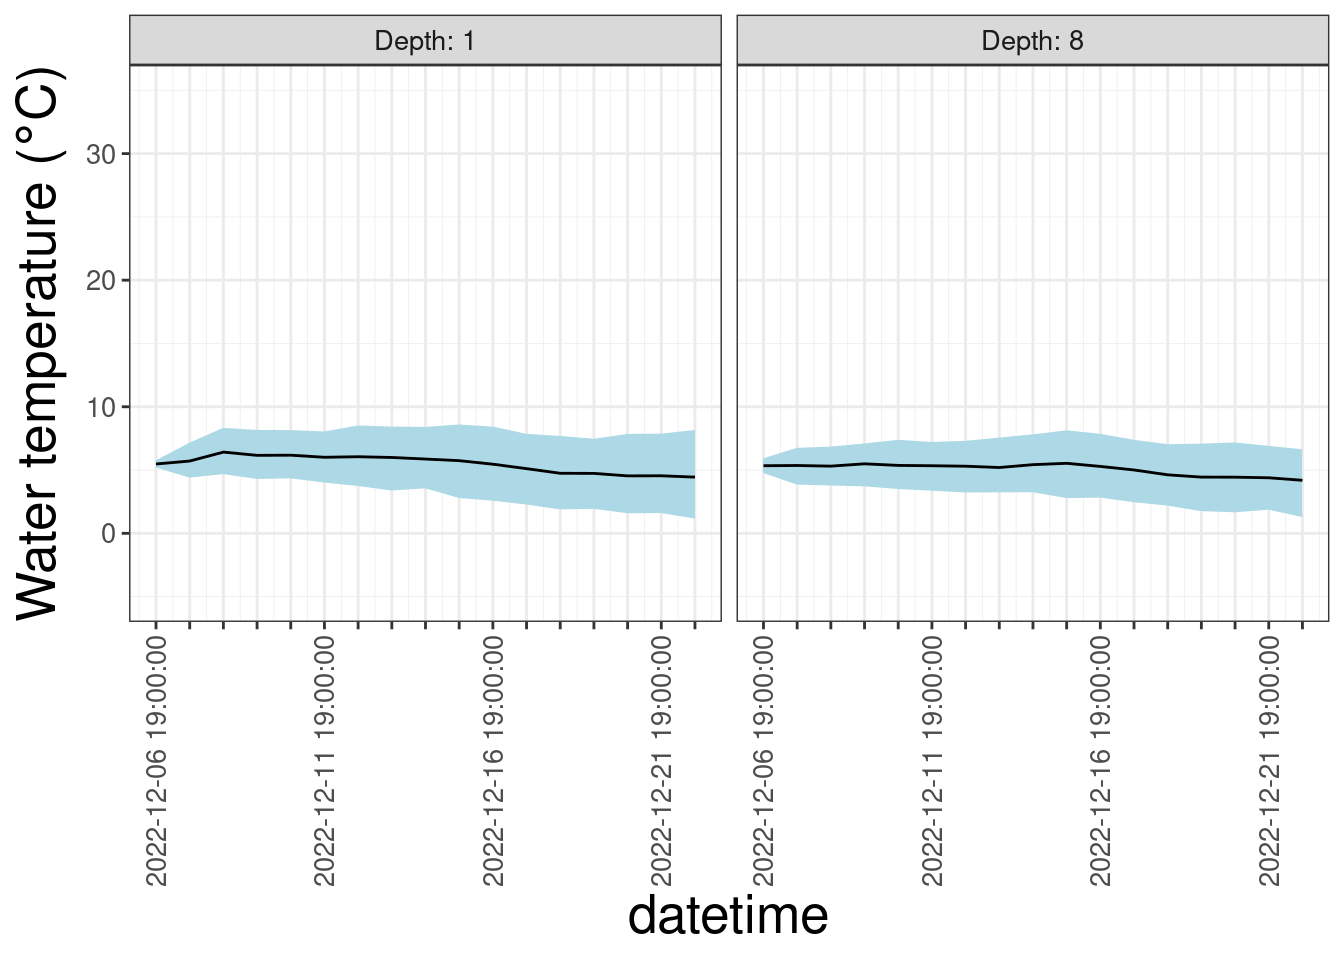
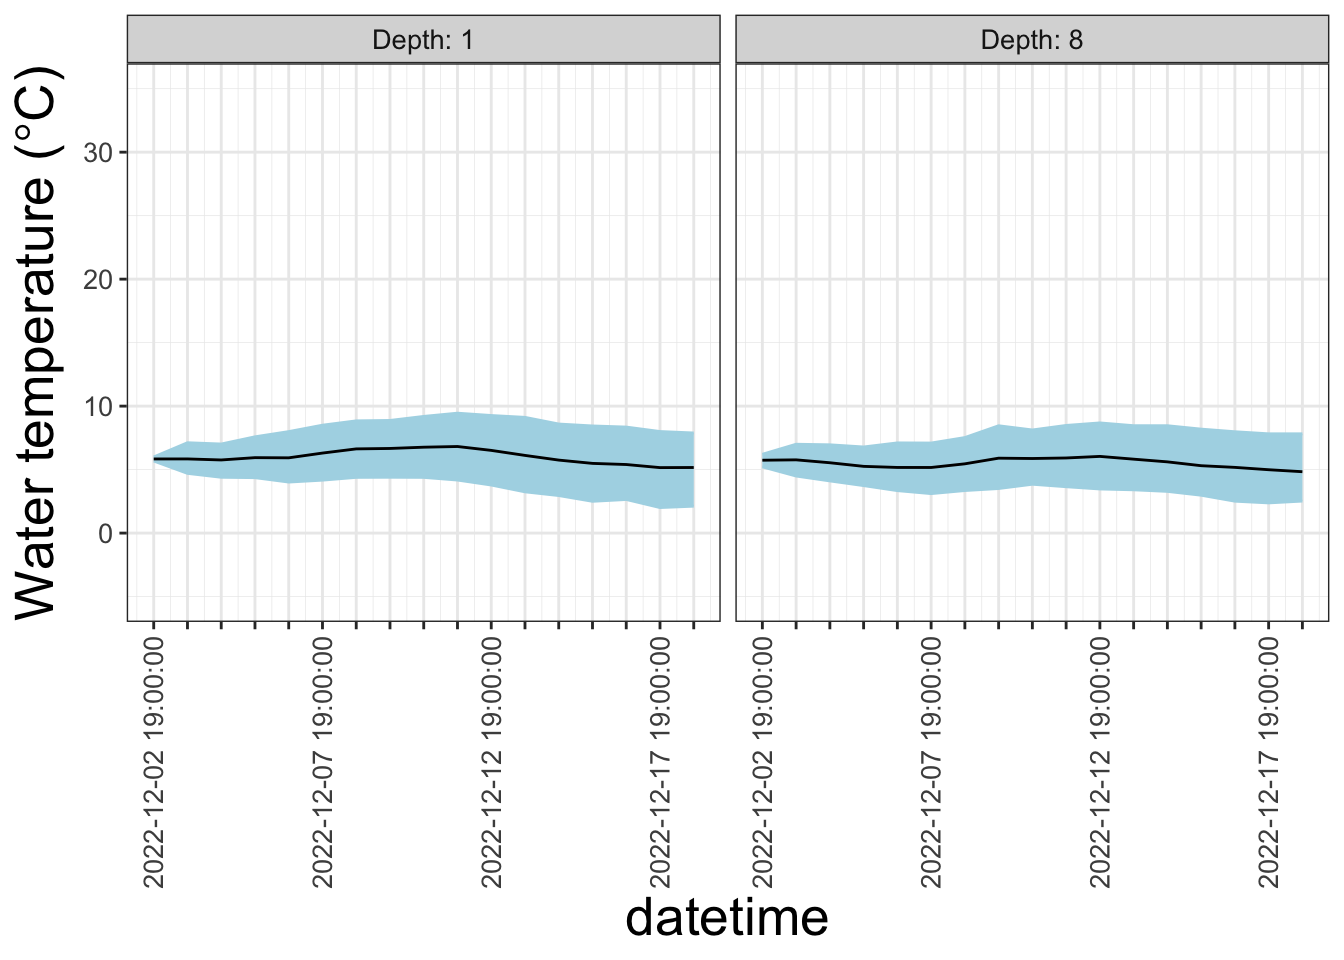
updates

diff --git a/docs/fcre.html b/docs/fcre.html
@@ -2,7 +2,7 @@
 <html xmlns="http://www.w3.org/1999/xhtml" lang="en" xml:lang="en"><head>
 
 <meta charset="utf-8">
-<meta name="generator" content="quarto-1.2.269">
+<meta name="generator" content="quarto-0.9.577">
 
 <meta name="viewport" content="width=device-width, initial-scale=1.0, user-scalable=yes">
 
@@ -11,15 +11,10 @@
 <style>
 code{white-space: pre-wrap;}
 span.smallcaps{font-variant: small-caps;}
-div.columns{display: flex; gap: min(4vw, 1.5em);}
-div.column{flex: auto; overflow-x: auto;}
+span.underline{text-decoration: underline;}
+div.column{display: inline-block; vertical-align: top; width: 50%;}
 div.hanging-indent{margin-left: 1.5em; text-indent: -1.5em;}
 ul.task-list{list-style: none;}
-ul.task-list li input[type="checkbox"] {
-  width: 0.8em;
-  margin: 0 0.8em 0.2em -1.6em;
-  vertical-align: middle;
-}
 </style>
 
 
@@ -38,7 +33,7 @@ ul.task-list li input[type="checkbox"] {
 <link href="site_libs/quarto-html/quarto-syntax-highlighting.css" rel="stylesheet" id="quarto-text-highlighting-styles">
 <script src="site_libs/bootstrap/bootstrap.min.js"></script>
 <link href="site_libs/bootstrap/bootstrap-icons.css" rel="stylesheet">
-<link href="site_libs/bootstrap/bootstrap.min.css" rel="stylesheet" id="quarto-bootstrap" data-mode="light">
+<link href="site_libs/bootstrap/bootstrap.min.css" rel="stylesheet">
 <script id="quarto-search-options" type="application/json">{
   "location": "navbar",
   "copy-button": false,
@@ -75,40 +70,28 @@ background-size: cover;
   <header id="quarto-header" class="headroom fixed-top">
     <nav class="navbar navbar-expand-lg navbar-dark ">
       <div class="navbar-container container-fluid">
-      <div class="navbar-brand-container">
-    <a class="navbar-brand" href="./index.html">
+      <a class="navbar-brand" href="./index.html">
     <span class="navbar-title">FLARE</span>
-    </a>
-  </div>
+  </a>
           <button class="navbar-toggler" type="button" data-bs-toggle="collapse" data-bs-target="#navbarCollapse" aria-controls="navbarCollapse" aria-expanded="false" aria-label="Toggle navigation" onclick="if (window.quartoToggleHeadroom) { window.quartoToggleHeadroom(); }">
   <span class="navbar-toggler-icon"></span>
 </button>
           <div class="collapse navbar-collapse" id="navbarCollapse">
             <ul class="navbar-nav navbar-nav-scroll me-auto">
   <li class="nav-item">
-    <a class="nav-link" href="https://flare-forecast.org"><i class="bi bi-cpu" role="img">
-</i> 
- <span class="menu-text">About</span></a>
+    <a class="nav-link" href="https://flare-forecast.org">About</a>
   </li>  
   <li class="nav-item">
-    <a class="nav-link active" href="./fcre.html" aria-current="page"><i class="bi bi-droplet" role="img">
-</i> 
- <span class="menu-text">Western Virginia Water Authority</span></a>
+    <a class="nav-link active" href="./fcre.html" aria-current="page">Western Virginia Water Authority</a>
   </li>  
   <li class="nav-item">
-    <a class="nav-link" href="./sunp.html"><i class="bi bi-droplet" role="img">
-</i> 
- <span class="menu-text">Lake Sunapee Protective Association</span></a>
+    <a class="nav-link" href="./sunp.html">Lake Sunapee Protective Association</a>
   </li>  
   <li class="nav-item">
-    <a class="nav-link" href="./alex.html"><i class="bi bi-droplet" role="img">
-</i> 
- <span class="menu-text">University of Western Australia</span></a>
+    <a class="nav-link" href="./alex.html">University of Western Australia</a>
   </li>  
   <li class="nav-item">
-    <a class="nav-link" href="./neon.html"><i class="bi bi-droplet" role="img">
-</i> 
- <span class="menu-text">National Ecological Observatory Network</span></a>
+    <a class="nav-link" href="./neon.html">National Ecological Observatory Network</a>
   </li>  
 </ul>
               <div id="quarto-search" class="" title="Search"></div>
@@ -128,7 +111,6 @@ background-size: cover;
   <div class="quarto-title-meta">
 
       
-    
       
     </div>
     
@@ -137,7 +119,7 @@ background-size: cover;
 <!-- sidebar -->
 <!-- margin-sidebar -->
     <div id="quarto-margin-sidebar" class="sidebar margin-sidebar">
-        <nav id="TOC" role="doc-toc" class="toc-active">
+        <nav id="TOC" role="doc-toc">
     <h2 id="toc-title">On this page</h2>
    
   <ul>
@@ -164,7 +146,7 @@ background-size: cover;
 <div class="cell" data-fig.showtext="false">
 
 </div>
-<p>The most recent forecast is from 2022-12-06 19:00:00 (Eastern U.S. time).</p>
+<p>The most recent forecast is from 2022-12-02 19:00:00 (Eastern U.S. time).</p>
 <div class="cell" data-fig.showtext="false">
 <div class="cell-output-display">
 <p><img src="fcre_files/figure-html/unnamed-chunk-4-1.png" class="img-fluid" width="672"></p>
@@ -187,7 +169,7 @@ background-size: cover;
 <div class="cell" data-fig.showtext="false">
 
 </div>
-<p>The most recent forecast is from 2022-12-06 19:00:00 (Eastern U.S. time).</p>
+<p>The most recent forecast is from 2022-12-02 19:00:00 (Eastern U.S. time).</p>
 <div class="cell" data-fig.showtext="false">
 <div class="cell-output-display">
 <p><img src="fcre_files/figure-html/unnamed-chunk-10-1.png" class="img-fluid" width="672"></p>
@@ -209,24 +191,6 @@ background-size: cover;
 </main> <!-- /main -->
 <script id="quarto-html-after-body" type="application/javascript">
 window.document.addEventListener("DOMContentLoaded", function (event) {
-  const toggleBodyColorMode = (bsSheetEl) => {
-    const mode = bsSheetEl.getAttribute("data-mode");
-    const bodyEl = window.document.querySelector("body");
-    if (mode === "dark") {
-      bodyEl.classList.add("quarto-dark");
-      bodyEl.classList.remove("quarto-light");
-    } else {
-      bodyEl.classList.add("quarto-light");
-      bodyEl.classList.remove("quarto-dark");
-    }
-  }
-  const toggleBodyColorPrimary = () => {
-    const bsSheetEl = window.document.querySelector("link#quarto-bootstrap");
-    if (bsSheetEl) {
-      toggleBodyColorMode(bsSheetEl);
-    }
-  }
-  toggleBodyColorPrimary();  
   const icon = "";
   const anchorJS = new window.AnchorJS();
   anchorJS.options = {
@@ -248,24 +212,7 @@ window.document.addEventListener("DOMContentLoaded", function (event) {
     button.classList.add('code-copy-button-checked');
     var currentTitle = button.getAttribute("title");
     button.setAttribute("title", "Copied!");
-    let tooltip;
-    if (window.bootstrap) {
-      button.setAttribute("data-bs-toggle", "tooltip");
-      button.setAttribute("data-bs-placement", "left");
-      button.setAttribute("data-bs-title", "Copied!");
-      tooltip = new bootstrap.Tooltip(button, 
-        { trigger: "manual", 
-          customClass: "code-copy-button-tooltip",
-          offset: [0, -8]});
-      tooltip.show();    
-    }
     setTimeout(function() {
-      if (tooltip) {
-        tooltip.hide();
-        button.removeAttribute("data-bs-title");
-        button.removeAttribute("data-bs-toggle");
-        button.removeAttribute("data-bs-placement");
-      }
       button.setAttribute("title", currentTitle);
       button.classList.remove('code-copy-button-checked');
     }, 1000);
@@ -293,50 +240,31 @@ window.document.addEventListener("DOMContentLoaded", function (event) {
   for (var i=0; i<noterefs.length; i++) {
     const ref = noterefs[i];
     tippyHover(ref, function() {
-      // use id or data attribute instead here
-      let href = ref.getAttribute('data-footnote-href') || ref.getAttribute('href');
+      let href = ref.getAttribute('href');
       try { href = new URL(href).hash; } catch {}
       const id = href.replace(/^#\/?/, "");
       const note = window.document.getElementById(id);
       return note.innerHTML;
     });
   }
-  const findCites = (el) => {
-    const parentEl = el.parentElement;
-    if (parentEl) {
-      const cites = parentEl.dataset.cites;
-      if (cites) {
-        return {
-          el,
-          cites: cites.split(' ')
-        };
-      } else {
-        return findCites(el.parentElement)
-      }
-    } else {
-      return undefined;
-    }
-  };
   var bibliorefs = window.document.querySelectorAll('a[role="doc-biblioref"]');
   for (var i=0; i<bibliorefs.length; i++) {
     const ref = bibliorefs[i];
-    const citeInfo = findCites(ref);
-    if (citeInfo) {
-      tippyHover(citeInfo.el, function() {
-        var popup = window.document.createElement('div');
-        citeInfo.cites.forEach(function(cite) {
-          var citeDiv = window.document.createElement('div');
-          citeDiv.classList.add('hanging-indent');
-          citeDiv.classList.add('csl-entry');
-          var biblioDiv = window.document.getElementById('ref-' + cite);
-          if (biblioDiv) {
-            citeDiv.innerHTML = biblioDiv.innerHTML;
-          }
-          popup.appendChild(citeDiv);
-        });
-        return popup.innerHTML;
+    const cites = ref.parentNode.getAttribute('data-cites').split(' ');
+    tippyHover(ref, function() {
+      var popup = window.document.createElement('div');
+      cites.forEach(function(cite) {
+        var citeDiv = window.document.createElement('div');
+        citeDiv.classList.add('hanging-indent');
+        citeDiv.classList.add('csl-entry');
+        var biblioDiv = window.document.getElementById('ref-' + cite);
+        if (biblioDiv) {
+          citeDiv.innerHTML = biblioDiv.innerHTML;
+        }
+        popup.appendChild(citeDiv);
       });
-    }
+      return popup.innerHTML;
+    });
   }
 });
 </script>
